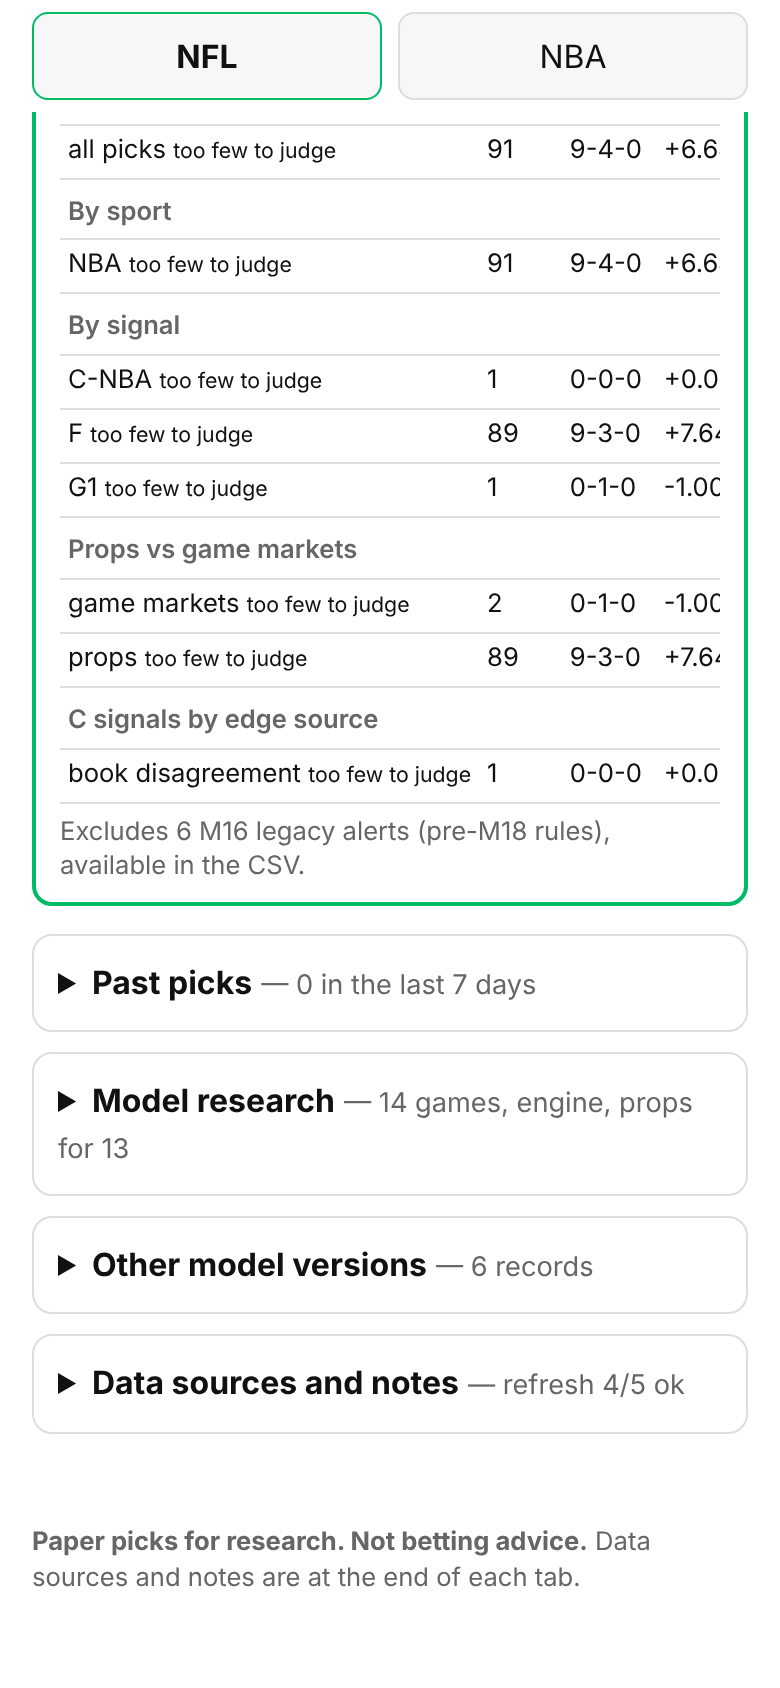
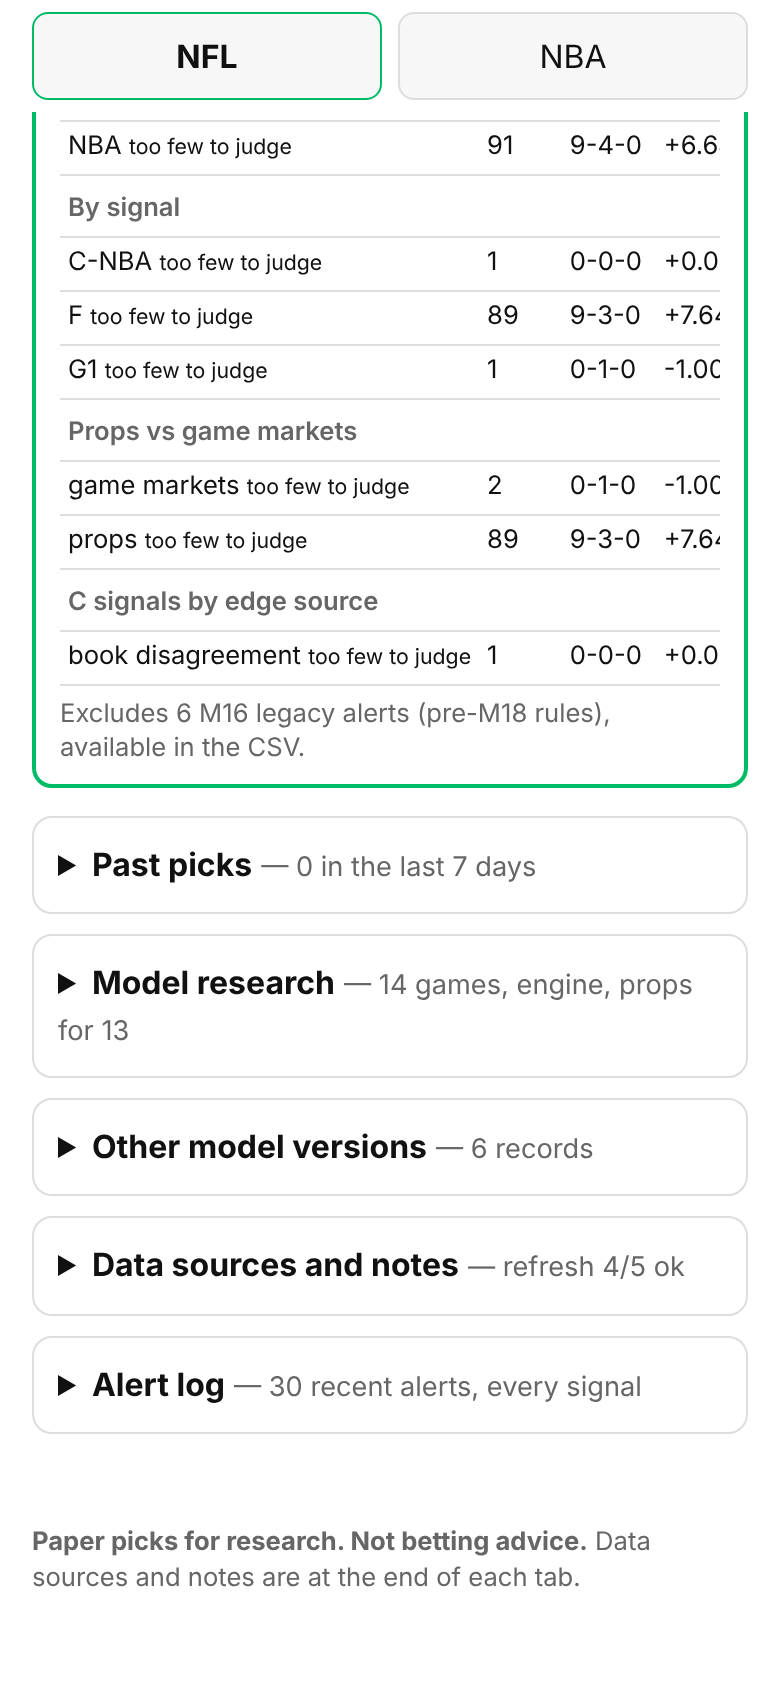
Page folds: the Alert log (inserted after the tabs by the hourly post-step) is folded too; screenshots from the live page
Claude-Session: https://claude.ai/code/session_01WMh1gUXuQha6xkjPqocFeK

diff --git a/src/betdata/alerts/page.py b/src/betdata/alerts/page.py
@@ -104,10 +104,21 @@ def _pp(x, sign=True) -> str:
     return "" if x is None else f"{100 * x:{'+' if sign else ''}.1f}"
 
 
+def _fold(preview: str) -> str:
+    """The section is folded like everything below the Value section (page/build.py `fold`):
+    one tap to open, remembered in the browser."""
+    return (f"<details class='fold' data-fold='alerts'><summary><b>Alert log</b> "
+            f"<span class='pv'>— {escape(preview)}</span></summary><div class='foldbody'>")
+
+
 def fragment(data: dict | None) -> str:
-    head = f'{START}<section id="alerts"><h2>Alerts</h2><p><b>{escape(LABEL)}</b></p>'
-    if not data or not data.get("available"):
-        return f"{head}<p class='meta'>Alerts unavailable.</p></section>{END}"
+    ok = bool(data and data.get("available"))
+    n = len(data["alerts"]) if ok else 0
+    head = (f"{START}{_fold(f'{n} recent alerts, every signal' if ok else 'unavailable')}"
+            f'<section id="alerts"><h2>Alerts</h2><p><b>{escape(LABEL)}</b></p>')
+    tail = f"</section></div></details>{END}"
+    if not ok:
+        return f"{head}<p class='meta'>Alerts unavailable.</p>{tail}"
     parts = [head, f"<p class='meta'>{escape(CAVEAT)} CLV no-vig in % points of the bet side's "
              "probability vs the pre-game close.</p>", "<h3>Running CLV</h3><table><tr>"
              "<th>Signal</th><th>Graded</th><th>Avg CLV no-vig (95% range)</th><th>ROI</th>"
@@ -150,7 +161,7 @@ def fragment(data: dict | None) -> str:
                 f"<td>{price}</td><td>{escape(reason)}</td><td>{a['delivery']}</td>"
                 f"<td>{escape(grade.strip()) or 'pending'}</td></tr>")  # fmt: skip
         parts.append("</table></div>")
-    return "".join(parts) + "</section>" + END
+    return "".join(parts) + tail
 
 
 def insert(html: str, frag: str) -> str:

diff --git a/tests/alerts/test_page.py b/tests/alerts/test_page.py
@@ -72,6 +72,10 @@ def test_lag_line_shows_the_decision(tmp_path):
         set_state(p, "signal1:decision", {"signal1": "off: not viable on free data"}, NOW)
     frag = P.fragment(P.load(db, NOW))
     assert "Signal 1 off: not viable on free data." in frag
+    # folded like everything below the Value section: closed, with a one-line preview
+    assert frag.startswith(P.START + "<details class='fold' data-fold='alerts'><summary><b>"
+                           "Alert log</b> <span class='pv'>— ")
+    assert frag.endswith("</section></div></details>" + P.END)
 
 
 def test_missing_or_broken_db_never_breaks_the_page(tmp_path):
